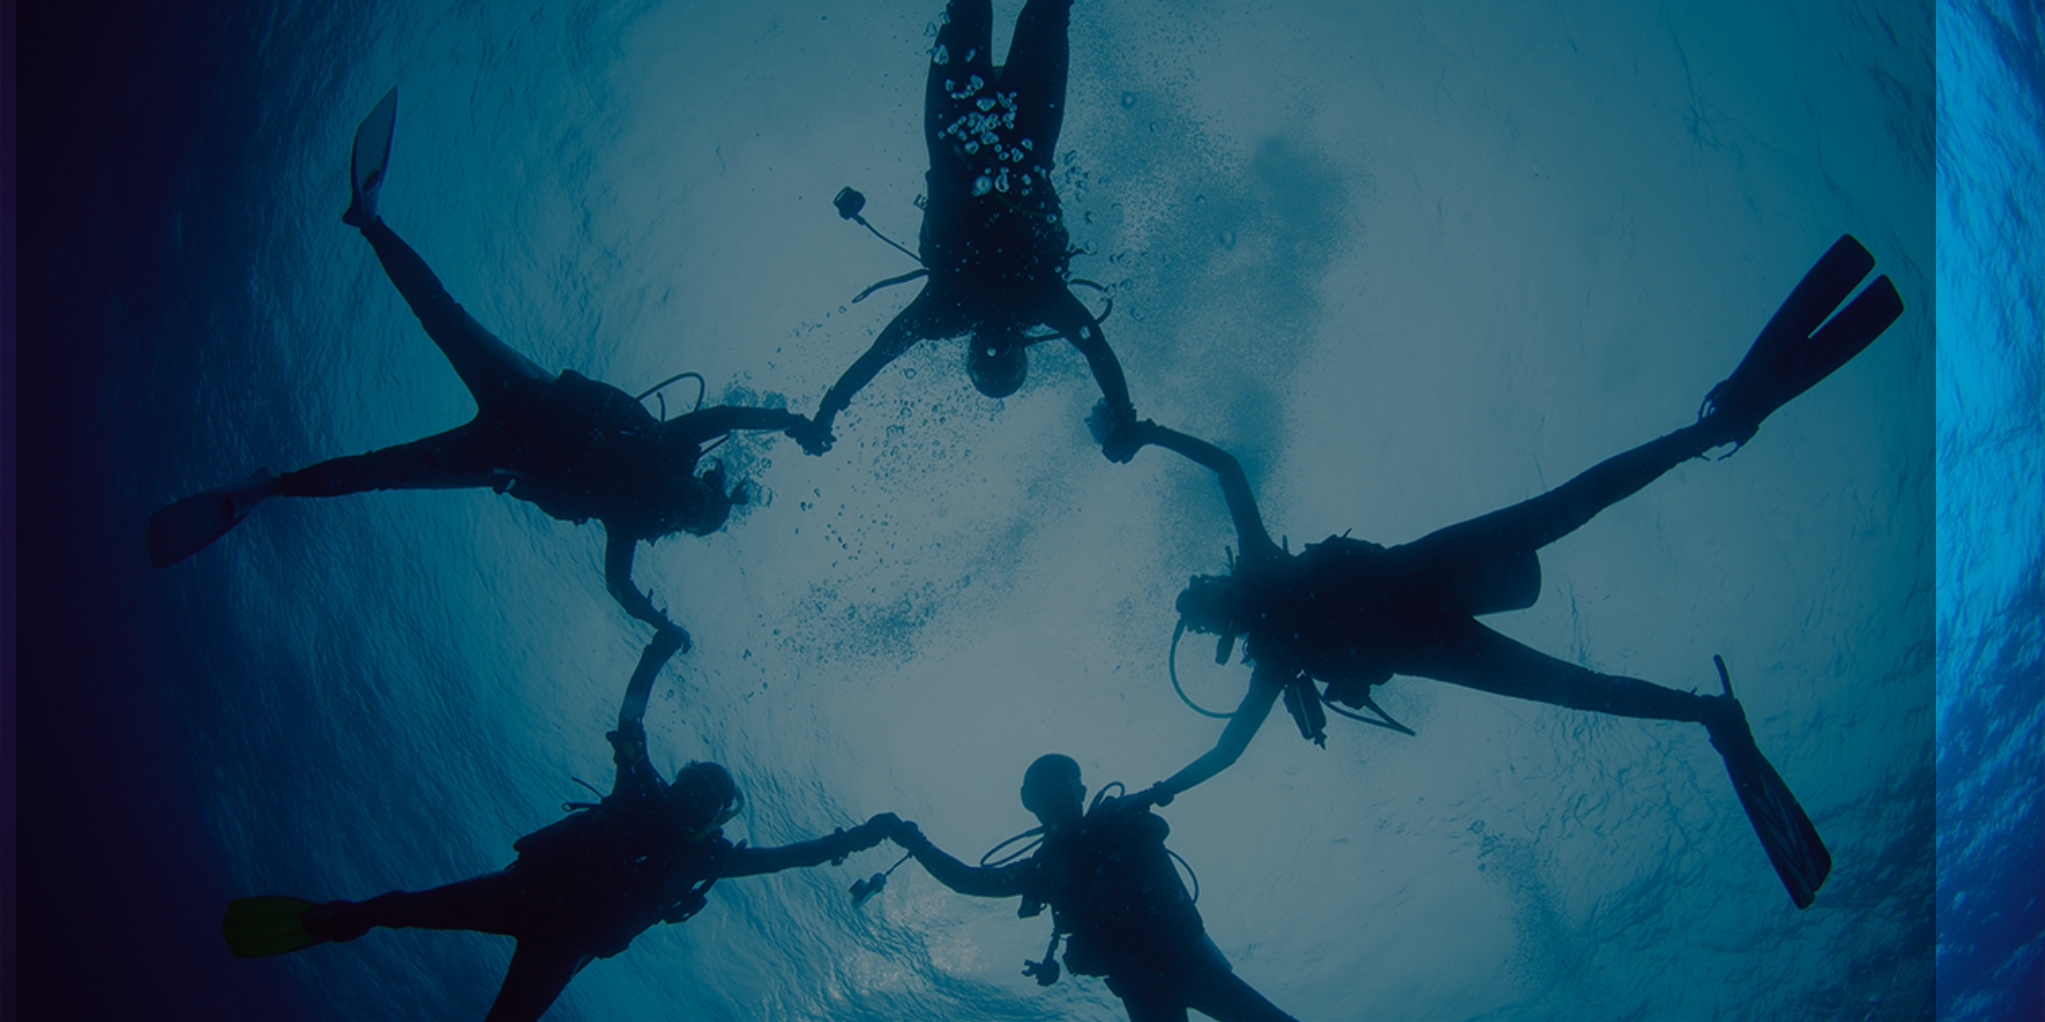
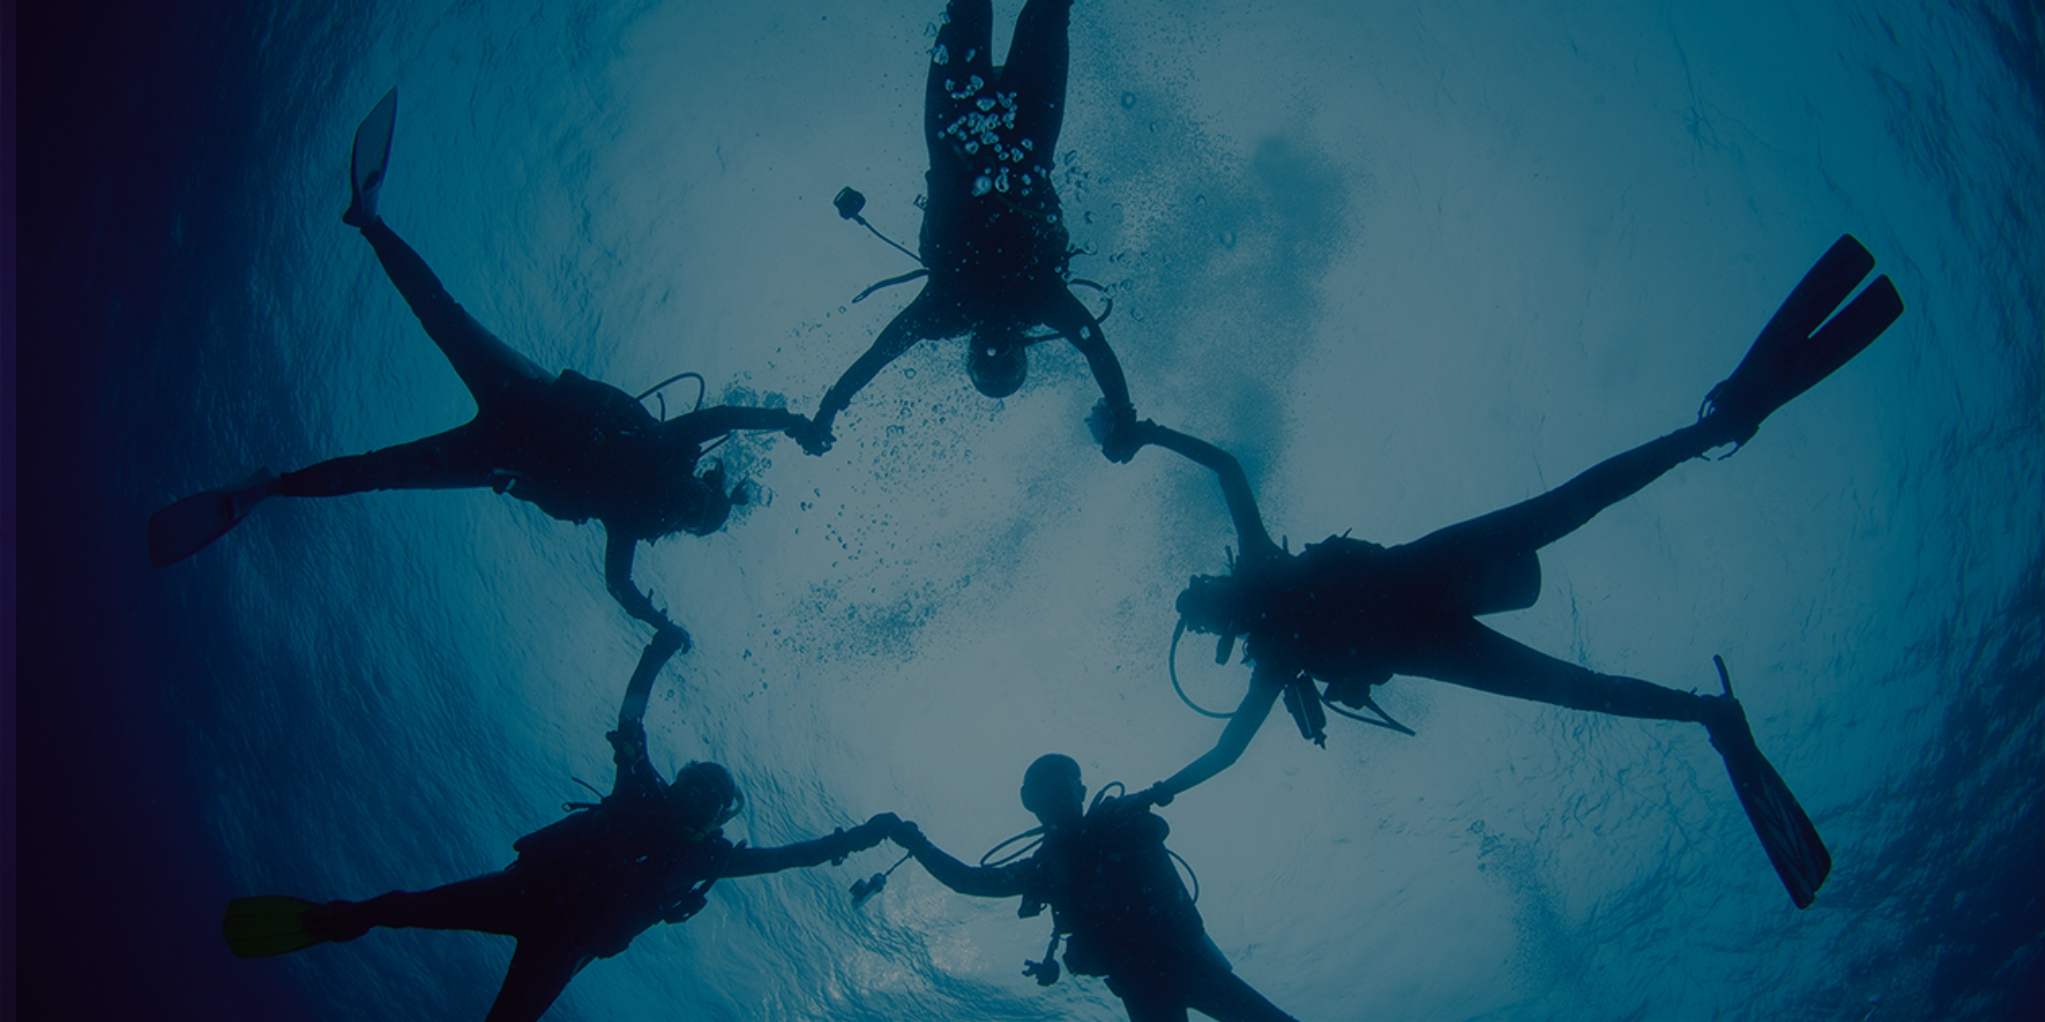
Finished testimonials sections

Changed region(s): [[0.9242, 0.0, 1.0, 1.0]]

diff --git a/index.html b/index.html
@@ -209,24 +209,25 @@
     <div class="container">
       <div class="title-area">
         <img src="assets/img/quote.svg" class="quote-icon" alt="" />
-        <h2>What people say about us</h2>
+        <h2 class="text-white text-weight-regular">What people say about us</h2>
       </div>
 
       <div class="tab-content">
         <div class="tab-pane active" id="susan">
-          <p class="description">
+          <p class="description text-white">
             "We had a marvelous dive that lasted over an hour -- our longest dive ever -- with Octo as our guide. We loved how many (many) of the fish swam around us and we were thrilled to see Lola, a school of squid, and a scorpion fish. It was a fabulous dive and we will definitely recommend you to anyone visiting Puerto Rico! Thank you for everything!! "
           </p>
+          <h4 class="text-white">- Susan Roberts</h4>
         </div>
-        <div class="tab-pane" id="testimonial2">
-          <p class="description">Green I even had the pink polo I thought I was Kanye I promise I will never let the people down. I want a better life for all! And I used a period because contrary to popular belief I strongly dislike exclamation points! We no longer have to
-            be scared of the truth feels good to be home In Roman times the artist would contemplate proportions and colors. Now there is only one important color...
+        <div class="tab-pane" id="nicole">
+          <p class="description text-white">"We had a wonderful dive with a great guide! The people were so incredibly nice and helpful, and did everything they could to make sure we had a good time!"
           </p>
+          <h4 class="text-white">- Nicole Magats</h4>
         </div>
-        <div class="tab-pane" id="testimonial3">
-          <p class="description"> I used a period because contrary to popular belief I strongly dislike exclamation points! We no longer have to be scared of the truth feels good to be home In Roman times the artist would contemplate proportions and colors. The 'Gaia' team did
-            a great work while we were collaborating. They provided a vision that was in deep connection with our needs and helped us achieve our goals.
+        <div class="tab-pane" id="atlia">
+          <p class="description text-white">"I very more enjoyed my shore dive in San Juan with Scuba Dogs. As a recently certified diver, I was most appreciative of dive master Giovanni's guidance. He was very helpful in helping me to improve my skills. Great team and fun experience all around. Thanks Scuba Dogs!"
           </p>
+          <h4 class="text-white">- Atlia Omer</h4>
         </div>
 
       </div>
@@ -240,16 +241,16 @@
           </a>
         </li>
         <li>
-          <a href="#testimonial2" role="tab" data-toggle="tab">
+          <a href="#nicole" role="tab" data-toggle="tab">
             <div class="image-clients">
-              <img alt="" class="img-circle" src="assets/img/faces/face_6.jpg" />
+              <img alt="" class="img-circle" src="assets/img/faces/nicole.jpg" />
             </div>
           </a>
         </li>
         <li>
-          <a href="#testimonial3" role="tab" data-toggle="tab">
+          <a href="#atlia" role="tab" data-toggle="tab">
             <div class="image-clients">
-              <img alt="" class="img-circle" src="assets/img/faces/face_2.jpg" />
+              <img alt="" class="img-circle" src="assets/img/faces/atlia.jpg" />
             </div>
           </a>
         </li>

diff --git a/assets/css/custom.css b/assets/css/custom.css
@@ -14,5 +14,16 @@
 }
 
 #testionials {
-  background-image: url('../img/testimonials-bg.jpg')
+  background-image: url('../img/testimonials-bg.jpg');
+  background-size: cover;
+  background-position: center;
+  background-repeat: no-repeat;
+}
+
+.text-white {
+  color: white !important;
+}
+
+.text-weight-regular {
+  font-weight: normal;
 }
